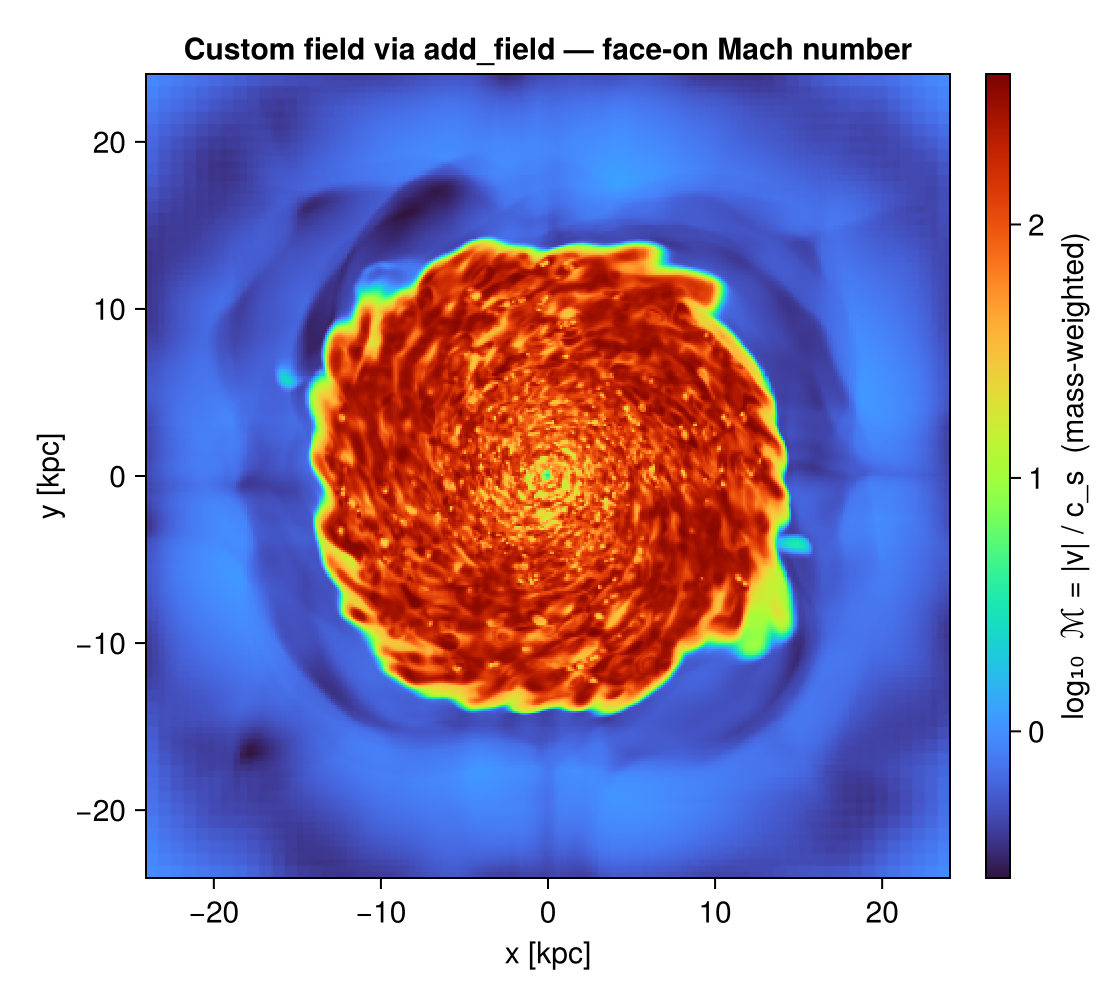
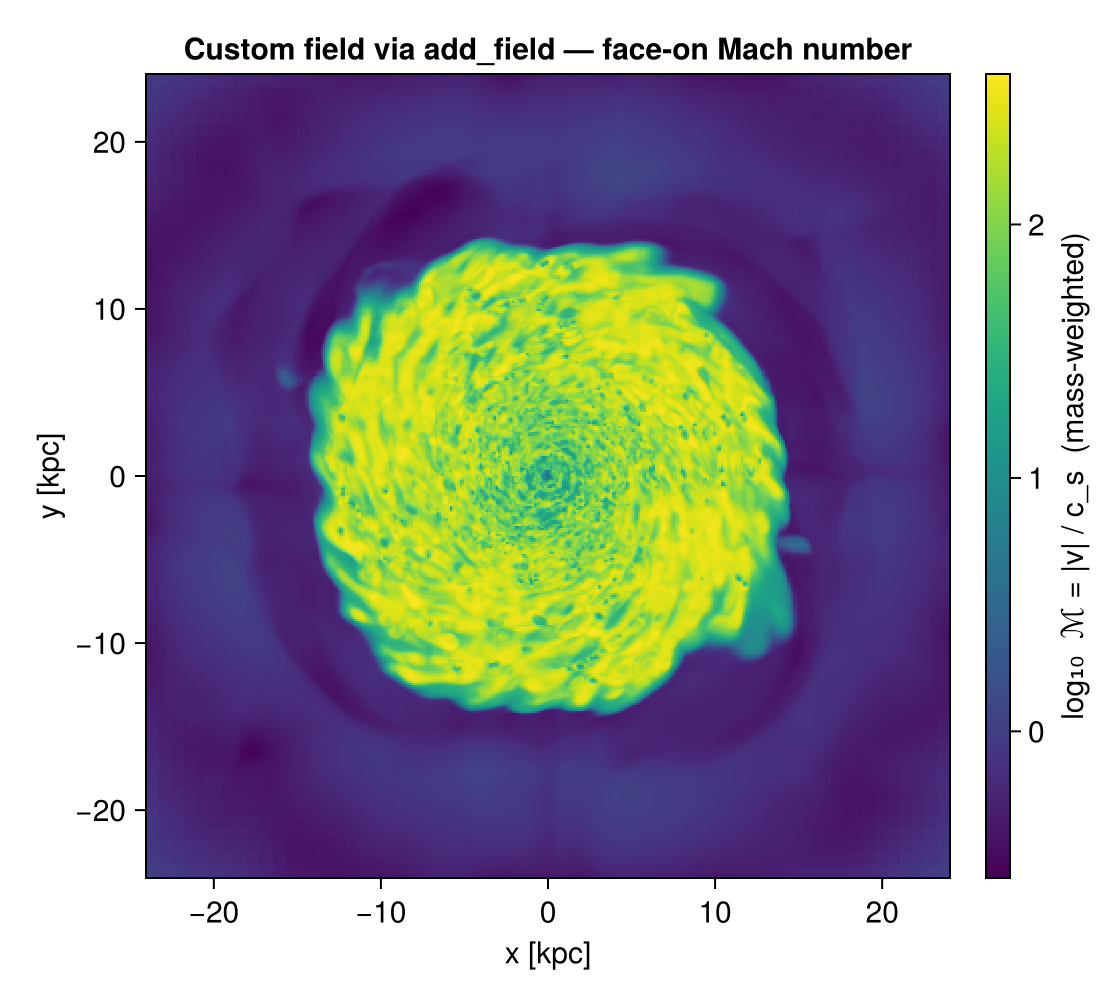
quicklook: gas Σ along x/y/z + face-on stellar & DM Σ (when present) + text census (cells/particles/mass/SFR) replacing bar plot; colorblind-safe viridis; particle counts from the full read

diff --git a/docs/src/quicklook.md b/docs/src/quicklook.md
@@ -11,30 +11,34 @@ q = quicklook(300; path="/sim/mw")
 ```
 
 ```text
-┌─ Mera quicklook ── output 300 (RAMSES) ───────────────
-│ box        : 48.0 kpc      levels 6–10  (finest 46.88 pc)
-│ grid       : ndim 3 · ncpu 640 · nvarh 7
-│ time       : 445.9 Myr  (non-cosmological)
-│ read       : 2.832e7 cells  (full resolution)
-│ gas mass   : 7.061e9 M⊙
-│ star mass  : 4.385e8 M⊙        DM mass : 0.0 M⊙
-│ current SFR: 1.377 (10 Myr) · 1.148 (100 Myr) M⊙/yr
-│ nH range   : 8.112e-8 … 103.2 cm⁻³
-│ T  range   : 10.2 … 2.303e8 K
-│ figures    : .maps[:sd]  ·  .phase (ρ–T)  ·  .budget (mass + SFR)
-└─ 1.6 s ──────────────────────────────────
+┌─ Mera quicklook ── output 80 (RAMSES) ───────────────
+│ box        : 62140.0 kpc     levels 6–16  (finest 948.1 pc)
+│ grid       : ndim 3 · ncpu 16 · nvarh 6
+│ time       : -1574.0 Myr   z = 0.1426
+│ particles  : 1090895 total  —  stars 31990 · DM 1058905
+│ read       : 1058982 cells  ⚠ APPROXIMATE (coarse levels ≤ 9 of 16)
+│ gas mass   : 2.21e15 M⊙  (approx.)
+│ star mass  : 1.22e11 M⊙        DM mass : 1.134e16 M⊙
+│ current SFR: 7.254 (10 Myr) · 4.381 (100 Myr) M⊙/yr
+│ nH range   : 4.221e-9 … 5.798e-4 cm⁻³
+│ T  range   : 45.13 … 3.933e7 K
+│ figures    : .maps (Σ x,y,z + stars,dm)  ·  .phase (ρ–T)  ·  .budget (mass + SFR)
+└─ 17.4 s ──────────────────────────────────
 ```
 
-![The quicklook dashboard: face-on gas surface density, the ρ–T phase diagram, and the global mass
-budget (gas / stars / dark matter) annotated with the current star-formation rate.](assets/features/quicklook_dashboard.png)
+![The quicklook dashboard (a cosmological zoom): gas surface density along z (face-on) and x, y
+(edge-on); face-on stellar and dark-matter surface density (shown only when particles are present);
+the ρ–T phase diagram; and a text census of cell/particle counts, masses and SFR. Colormaps are the
+colorblind-safe, perceptually-uniform viridis.](assets/features/quicklook_dashboard.png)
 
 ## What you get
 
 The call returns a [`QuickLookResult`](@ref):
 
 * `q.summary` — a `NamedTuple` of header facts and estimates (box, levels, finest cell, time/redshift,
-  masses, density/temperature ranges, read time).
-* `q.maps` — the face-on surface-density projection (`q.maps.maps[:sd]`).
+  the cell & particle census, masses, density/temperature ranges, read time).
+* `q.maps` — surface-density projections: gas along each axis (`q.maps.z`/`.x`/`.y`, each an
+  `AMRMapsType` with `.maps[:sd]`), plus face-on `q.maps.stars` / `q.maps.dm` when particles are present.
 * `q.phase` — the ρ–T phase histogram (`q.phase.H`, `q.phase.xedges`, `q.phase.yedges`).
 * `q.budget` — the **global snapshot budget**: `gas_mass_Msol`, and (when a particle file is present)
   `stellar_mass_Msol`, `dm_mass_Msol`, `n_stars`, `n_dm`, and the current SFR (`sfr10`, `sfr100`,
@@ -62,7 +66,9 @@ quicklook(300; path="/sim/mw", budget=500_000)    # cap the read on a huge outpu
 
 ## Plotting
 
-[`quicklookplot`](@ref) renders the three-panel dashboard (needs a Makie backend):
+[`quicklookplot`](@ref) renders the multi-panel dashboard — gas Σ along x/y/z, face-on stellar &
+dark-matter Σ (when present), the ρ–T phase diagram, and a text census — with colorblind-safe
+colormaps (needs a Makie backend):
 
 ```julia
 using CairoMakie

diff --git a/docs/src/report.md b/docs/src/report.md
@@ -183,7 +183,8 @@ clump_mass_fraction
 * [Profiles & Phase Diagrams](15_multi_Profiles_Phase.md) — the profile/phase tools behind the cards.
 * [`quicklook`](@ref) — the fast header-and-sample first look; `report(output)` is its composable form.
   With a Makie backend loaded (`using CairoMakie`), [`quicklookplot`](@ref) renders its result as a
-  three-panel figure (Σ map · ρ–T phase · radial density):
+  multi-panel dashboard (gas Σ along x/y/z · face-on stellar & dark-matter Σ when present · ρ–T phase ·
+  a text census):
 
   ```julia
   using CairoMakie
@@ -191,6 +192,7 @@ clump_mass_fraction
   Makie.save("quicklook.png", fig)
   ```
 
-  ![The `quicklookplot` first-look dashboard: face-on surface density, the ρ–T phase diagram, and the
-  global mass budget (gas / stars / dark matter) annotated with the current SFR. See
+  ![The `quicklookplot` first-look dashboard (a cosmological zoom): gas surface density along each axis,
+  face-on stellar and dark-matter surface density, the ρ–T phase diagram, and a text census of
+  cell/particle counts, masses and SFR (colorblind-safe colormaps). See
   [Quick Look](quicklook.md).](assets/features/quicklook_dashboard.png)
